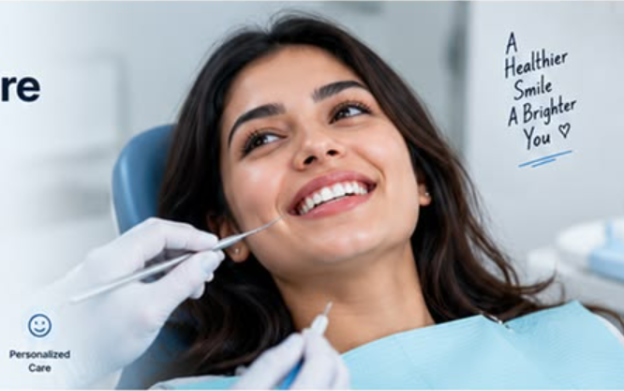
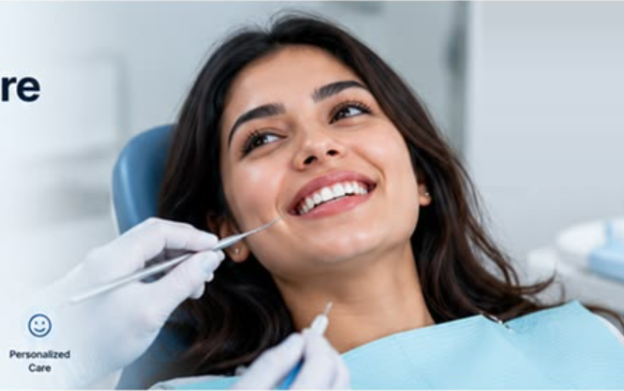
fix: solucion a letras enredadas en foto hero reemplazando por badge limpio y fondo restaurado

Changed region(s): [[0.7917, 0.0921, 0.9439, 0.4297]]

diff --git a/src/components/HeroSection.tsx b/src/components/HeroSection.tsx
@@ -144,16 +144,12 @@ export const HeroSection: React.FC<HeroSectionProps> = ({ onOpenBooking }) => {
               {/* Subtle fade left to blend with text on desktop */}
               <div className="absolute inset-y-0 left-0 w-16 bg-gradient-to-r from-white/60 to-transparent pointer-events-none hidden sm:block" />
 
-              {/* Handwritten Script Note in Spanish matching reference image */}
-              <div className="absolute top-6 right-6 text-right select-none pointer-events-none drop-shadow-md">
-                <span className="font-handwritten text-3xl sm:text-4xl lg:text-[42px] font-bold text-slate-800 leading-tight block transform rotate-2">
-                  Una Sonrisa <br />
-                  Más Sana, <br />
-                  Un Tú Más <br />
-                  Radiante ♡
+              {/* Clean Frosted Glass Badge - 100% legible, replaces tangled handwritten script */}
+              <div className="absolute top-5 right-5 bg-white/90 backdrop-blur-md px-4 py-2 rounded-full shadow-md border border-white/80 flex items-center gap-2 select-none">
+                <span className="w-2 h-2 rounded-full bg-brand-500 animate-pulse" />
+                <span className="text-xs font-bold text-slate-800 tracking-tight">
+                  Sonrisas Sanas & Radiantes
                 </span>
-                {/* Decorative underline curve matching reference */}
-                <div className="w-16 h-1 bg-[#006fe6]/60 rounded-full ml-auto mt-1 transform rotate-2" />
               </div>
 
               {/* Floating Doctor Credential Badge */}

diff --git a/HISTORIAL_DE_CAMBIOS.md b/HISTORIAL_DE_CAMBIOS.md
@@ -23,6 +23,9 @@ Cualquier funcionalidad registrada aquí está blindada: ninguna IA puede elimin
   - Sección "Sobre Nosotros / Dra. Zubiri" con fotografía real en consultorio y pilares de atención.
   - Galería Antes y Después interactiva con los casos clínicos reales de blanqueamiento dental.
   - **Sistema de Agendamiento Interactivo de Citas:** Selección de especialidad, fecha, horario disponible, datos del paciente y confirmación con envío directo a WhatsApp.
+  - **Limpieza de Tipografía Enredada en Primera Fotografía (Hero):**
+    - Removidas y restauradas las letras quemadas en la imagen base `hero-patient.png` restaurando el fondo de pared clínico.
+    - Reemplazado el bloque de texto manuscrito por un badge cápsula de cristal esmerilado limpio, nítido y 100% legible (*"Sonrisas Sanas & Radiantes"*).
   - **Traducción Integral al Español al 100%:**
     - Traducidos todos los encabezados, botones, menús de navegación, tarjetas de tratamientos, testimonios, notas manuscritas cursivas y enlaces del pie de página a español nativo y profesional.
   - **Estilo de Botones Liquid Glass & Optical Frosted (Glassmorphism 3D):**
